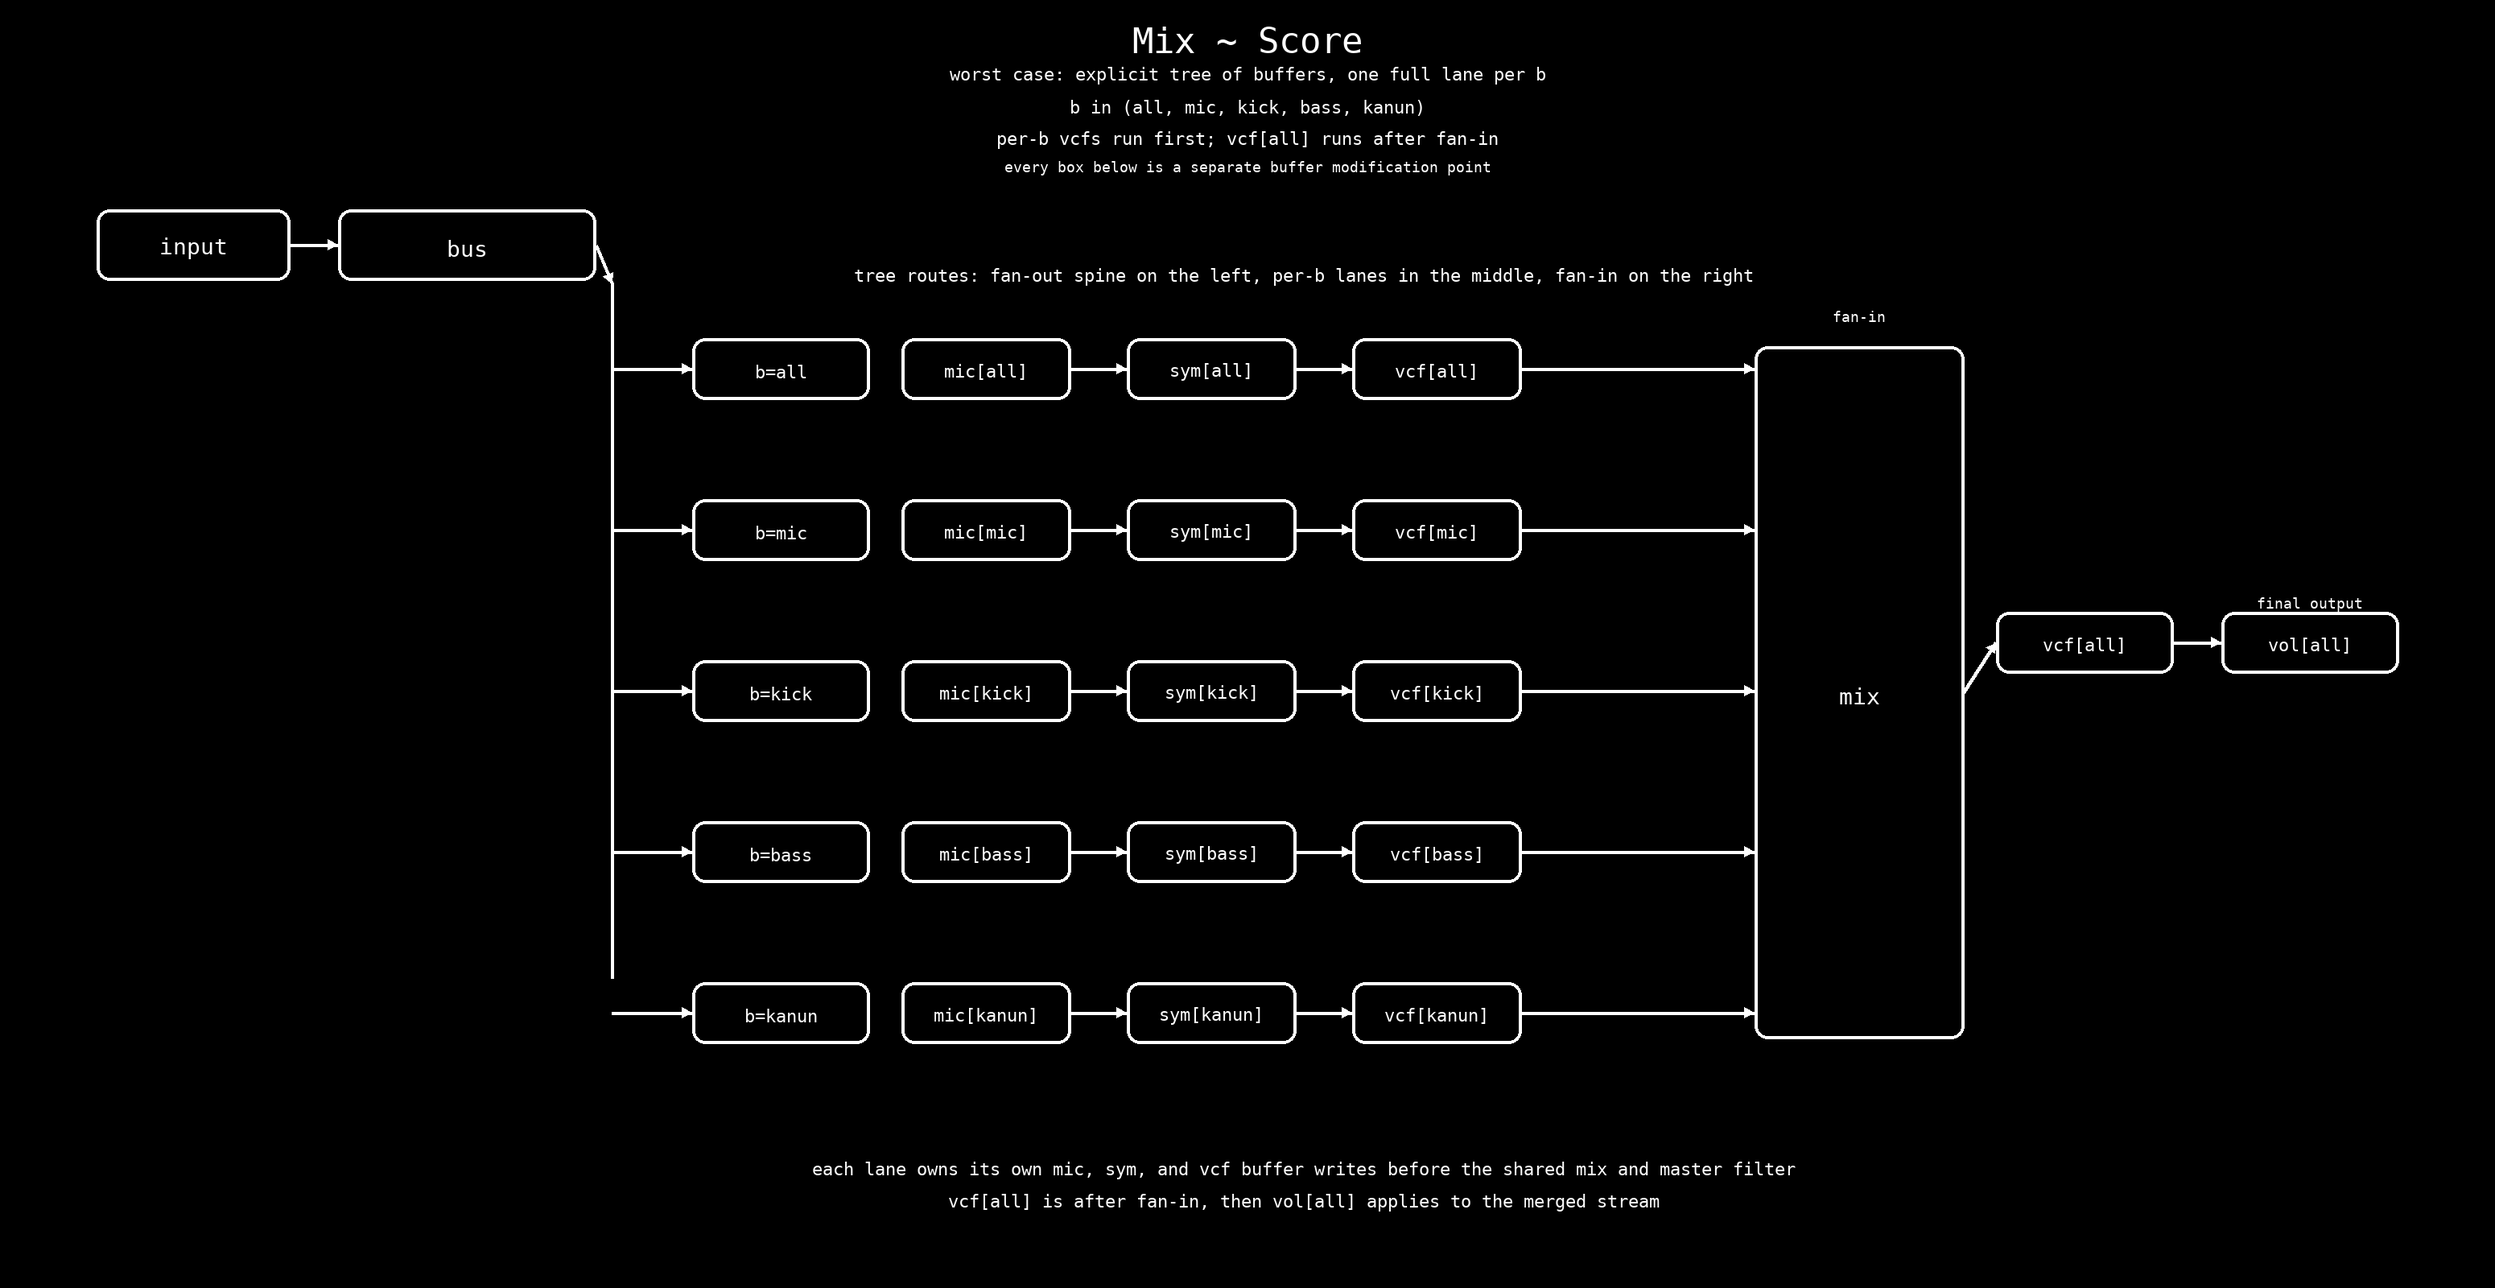
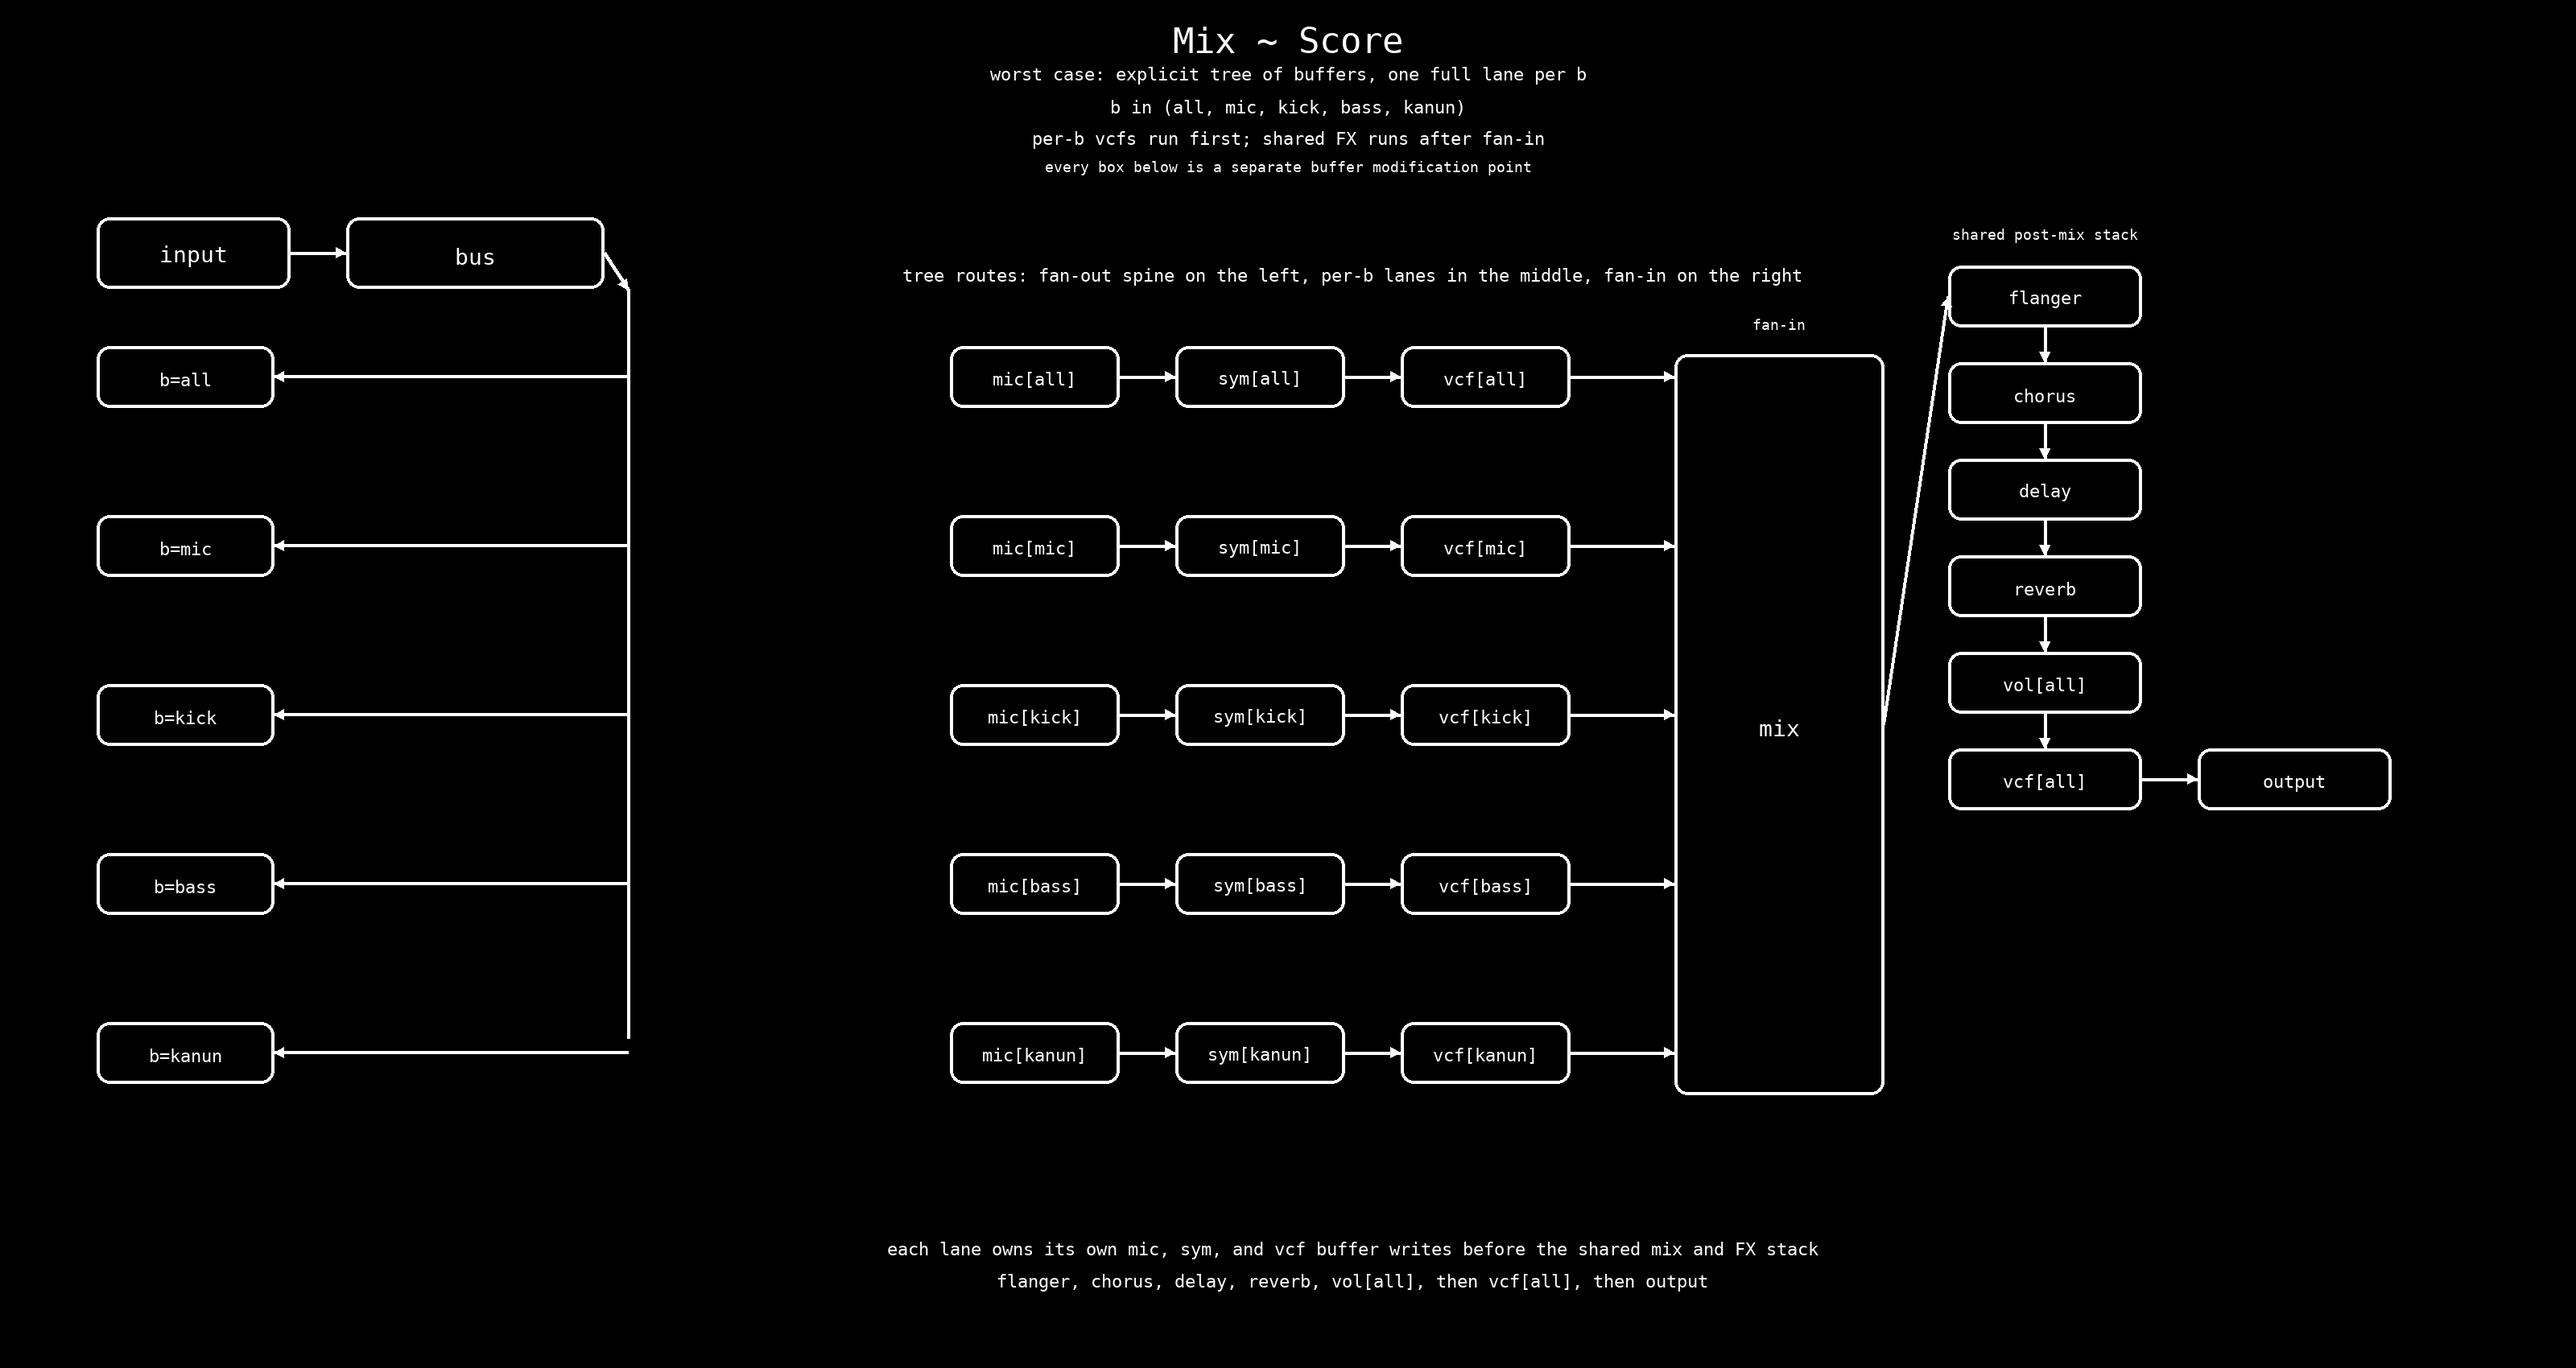
show shared fx stack

diff --git a/docs/buses-effects-order.md b/docs/buses-effects-order.md
@@ -17,11 +17,12 @@ At runtime, the callback processes sound in this order:
 The important split is this:
 
 ```text
-input -> bus -> mic[b] -> sym[b] -> vcf[b] -> mix -> vcf[all] -> vol[all]
+input -> bus -> mic[b] -> sym[b] -> vcf[b] -> mix -> flanger -> chorus -> delay -> reverb -> vol[all] -> vcf[all] -> output
 ```
 
 Here `b` ranges over `all`, `mic`, `kick`, `bass`, and `kanun`.
-The per-b `vcf` boxes run first. The master `vcf[all]` runs after fan-in.
+The per-b `vcf` boxes run first. The shared FX stack runs after fan-in.
+The master `vcf[all]` runs after `vol[all]`.
 
 That is the worst-case work path when the score is driving all active buses at
 once.
@@ -30,7 +31,7 @@ once.
 
 This is the loaded case: score fans out to all the active buses at once, the
 mix stage pulls them back together, and the post-mix FX stack keeps going with
-chorus, flanger, echo, and reverb.
+flanger, chorus, delay, reverb, `vol[all]`, and `vcf[all]`.
 
 ![Mix and score worst case](./mix-score-worst-case.png)
 
